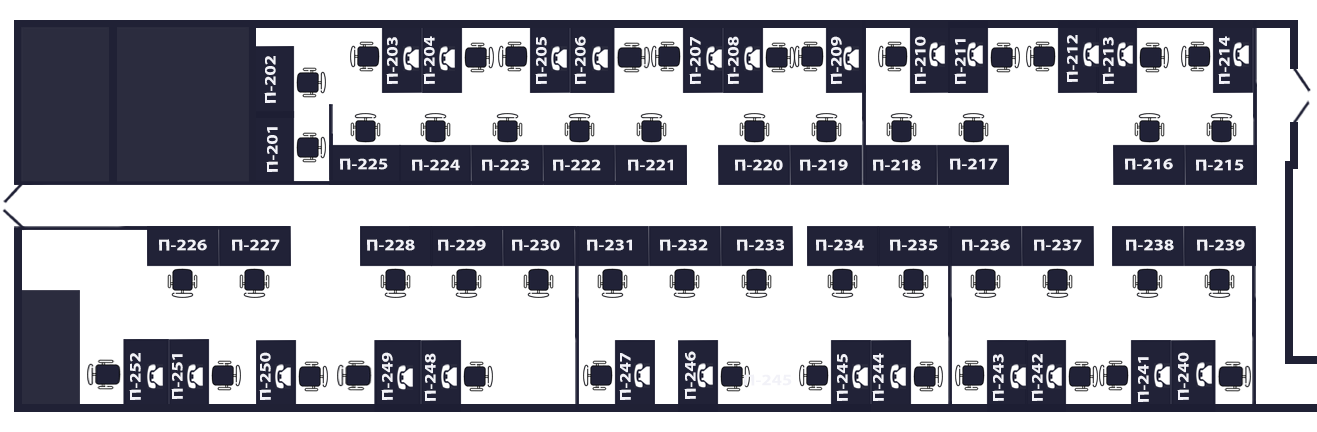
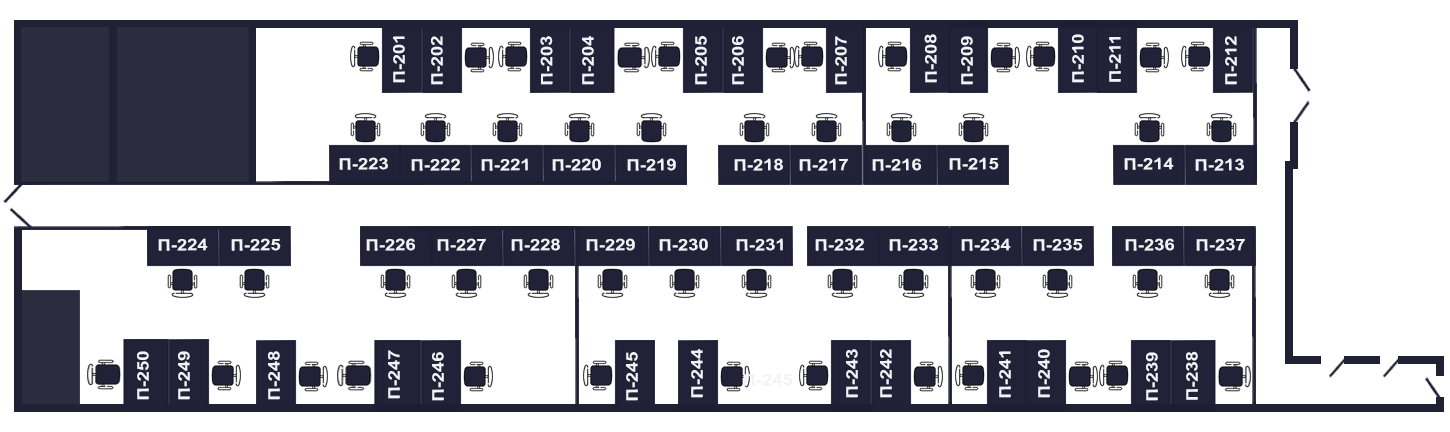
added map for right wing, blocked places L-112 L-124

diff --git a/src/shared/ui/Map/Map.module.scss b/src/shared/ui/Map/Map.module.scss
@@ -79,56 +79,56 @@
 
 // 2 этаж 2 крыло
 
-.R201 {top:133px; left:292px;}
-.R202 {top:69px; left:292px;}
-.R203 {top:44px; left:350px;}
-.R204 {top:44px; left:459px;}
-.R205 {top:44px; left:496px;}
-.R206 {top:44px; left:610px;}
-.R207 {top:44px; left:647px;}
-.R208 {top:44px; left:756px;}
-.R209 {top:44px; left:790px;}
-.R210 {top:44px; left:872px;}
-.R211 {top:44px; left:978px;}
-.R212 {top:44px; left:1017px;}
-.R213 {top:44px; left:1125px;}
-.R214 {top:44px; left:1170px;}
-.R215 {top:117px; left:1194px;}
-.R216 {top:117px; left:1123px;}
-.R217 {top:117px; left:949px;}
-.R218 {top:117px; left:878px;}
-.R219 {top:117px; left:804px;}
-.R220 {top:117px; left:733px;}
-.R221 {top:117px; left:631px;}
-.R222 {top:117px; left:560px;}
-.R223 {top:117px; left:489px;}
-.R224 {top:117px; left:418px;}
-.R225 {top:117px; left:349px;}
-.R226 {top:265px; left:168px;}
-.R227 {top:265px; left:239px;}
-.R228 {top:265px; left:378px;}
-.R229 {top:265px; left:449px;}
-.R230 {top:265px; left:520px;}
-.R231 {top:265px; left:593px;}
-.R232 {top:265px; left:664px;}
-.R233 {top:265px; left:735px;}
-.R234 {top:265px; left:820px;}
-.R235 {top:265px; left:890px;}
-.R236 {top:265px; left:961px;}
-.R237 {top:265px; left:1032px;}
-.R238 {top:265px; left:1121px;}
-.R239 {top:265px; left:1192px;}
-.R240 {top:359px; left:1204px;}
-.R241 {top:359px; left:1090px;}
-.R242 {top:359px; left:1056px;}
-.R243 {top:359px; left:947px;}
-.R244 {top:359px; left:903px;}
-.R245 {top:359px; left:794px;}
-.R246 {top:359px; left:711px;}
-.R247 {top:359px; left:580px;}
-.R248 {top:359px; left:458px;}
-.R249 {top:359px; left:340px;}
-.R250 {top:359px; left:295px;}
+.R201 {top:39px; left:317px;}
+.R202 {top:39px; left:413px;}
+.R203 {top:39px; left:450px;}
+.R204 {top:39px; left:552px;}
+.R205 {top:39px; left:589px;}
+.R206 {top:39px; left:687px;}
+.R207 {top:39px; left:715px;}
+.R208 {top:39px; left:790px;}
+.R209 {top:39px; left:888px;}
+.R210 {top:39px; left:925px;}
+.R211 {top:39px; left:1020px;}
+.R212 {top:39px; left:1062px;}
+.R213 {top:105px; left:1083px;}
+.R214 {top:105px; left:1019px;}
+.R215 {top:105px; left:862px;}
+.R216 {top:105px; left:798px;}
+.R217 {top:105px; left:730px;}
+.R218 {top:105px; left:665px;}
+.R219 {top:105px; left:571px;}
+.R220 {top:105px; left:507px;}
+.R221 {top:105px; left:443px;}
+.R222 {top:105px; left:379px;}
+.R223 {top:105px; left:315px;}
+.R224 {top:240px; left:151px;}
+.R225 {top:240px; left:216px;}
+.R226 {top:240px; left:342px;}
+.R227 {top:240px; left:406px;}
+.R228 {top:240px; left:470px;}
+.R229 {top:240px; left:536px;}
+.R230 {top:240px; left:601px;}
+.R231 {top:240px; left:666px;}
+.R232 {top:240px; left:742px;}
+.R233 {top:240px; left:809px;}
+.R234 {top:240px; left:872px;}
+.R235 {top:240px; left:936px;}
+.R236 {top:240px; left:1018px;}
+.R237 {top:240px; left:1082px;}
+.R238 {top:325px; left:1092px;}
+.R239 {top:325px; left:989px;}
+.R240 {top:325px; left:956px;}
+.R241 {top:325px; left:859px;}
+.R242 {top:325px; left:819px;}
+.R243 {top:325px; left:717px;}
+.R244 {top:325px; left:643px;}
+.R245 {top:325px; left:525px;}
+.R246 {top:325px; left:415px;}
+.R247 {top:325px; left:308px;}
+.R248 {top:325px; left:265px;}
+.R249 {top:325px; left:187px;}
+.R250 {top:324px; left:83px;}
 .R251 {top:359px; left:209px;}
 .R252 {top:359px; left:94px;}
 .R253 {top:340px; left:220px;}

diff --git a/src/widgets/Reservation/ReservationAside/ui/ReservationAside.tsx b/src/widgets/Reservation/ReservationAside/ui/ReservationAside.tsx
@@ -7,6 +7,9 @@ import green from "shared/assets/images/icon_Зеленый.png"
 import red from "shared/assets/images/icon_Красный.png"
 import {Button} from "shared/ui/Button/Button";
 import {AppLink} from "shared/ui/AppLink/AppLink";
+import mapPointGray from "shared/assets/images/icon_Серый.png";
+import mapPointGreen from "shared/assets/images/icon_Зеленый.png";
+import mapPointRed from "shared/assets/images/icon_Красный.png";
 
 interface IReservationAsideProps {
     className?: string;
@@ -47,15 +50,30 @@ const ReservationAside: FC<IReservationAsideProps> = memo(props => {
         )
     }
 
+    const mapPoint = (place: IReservationItem) => {
+
+        if (place.place_id === 118 || place.place_id === 130)
+            return mapPointGray
+
+        if (place.is_available)
+            return mapPointGreen
+
+        if (!place.is_available)
+            return mapPointRed
+
+
+        return mapPointGray
+    }
+
 
     const renderItem = (place: IReservationItem) => {
         return (
                 <div className={cls.place}>
-                    <img className={cls.statusImg} src={place.is_available ? green : red} alt={"flag"}/>
+                    <img className={cls.statusImg} src={mapPoint(place)} alt={"flag"}/>
                     <div className={cls.properties}>
                         <a className={cls.title}> Место #{place.name} </a>
                         <a className={cls.description}> Телефон, компьютер </a>
-                        {!place.is_available ?
+                        {!place.is_available || (place.place_id != 118 && place.place_id != 130) ?
                             <div className={cls.text_block}>
                                 <a className={cls.description}> {place.full_name} </a>
                                 <a className={cls.description}> {place.position} </a>

diff --git a/src/shared/ui/Point/Point.tsx b/src/shared/ui/Point/Point.tsx
@@ -32,11 +32,15 @@ export const Point: FC<IPoint> = (props) => {
     };
 
     const mapPoint = () => {
+        if (place.place_id === 118 || place.place_id === 130)
+            return mapPointGray
+
         if (place.is_available)
             return mapPointGreen
 
         if (!place.is_available)
             return mapPointRed
+
 
         return mapPointGray
     }
@@ -47,7 +51,7 @@ export const Point: FC<IPoint> = (props) => {
         <div className={classNames(className, mods, [])}>
             <div className={cls.tooltip}>
                 <img src={mapPoint()} alt={"point"} onClick={SelectPoint}/>
-                { place.is_available ? null :
+                { place.is_available || place.place_id === 118 || place.place_id === 130 ? null :
                 <div className={cls.tooltiptext}>
                     <div className={cls.text_block}>
                         <a> {place.full_name} </a>

diff --git a/src/shared/ui/Map/Map.tsx b/src/shared/ui/Map/Map.tsx
@@ -843,7 +843,7 @@ export const Map: FC<IMap> = (props) => {
                     <Point place={place} className={classNames(cls.Point, {}, position)} selectedPoint={selectedPoint} setSelectedPoint={setSelectedPoint} setSelectedPlace={setSelectedPlace}/>
                 )
             }
-            if (floor === "2_2" && place.place_id > 52 && place.place_id < 105) {
+            if (floor === "2_2" && place.place_id > 52 && place.place_id < 103) {
                 return (
                     <Point place={place} className={classNames(cls.Point, {}, position)} selectedPoint={selectedPoint} setSelectedPoint={setSelectedPoint} setSelectedPlace={setSelectedPlace}/>
                 )
